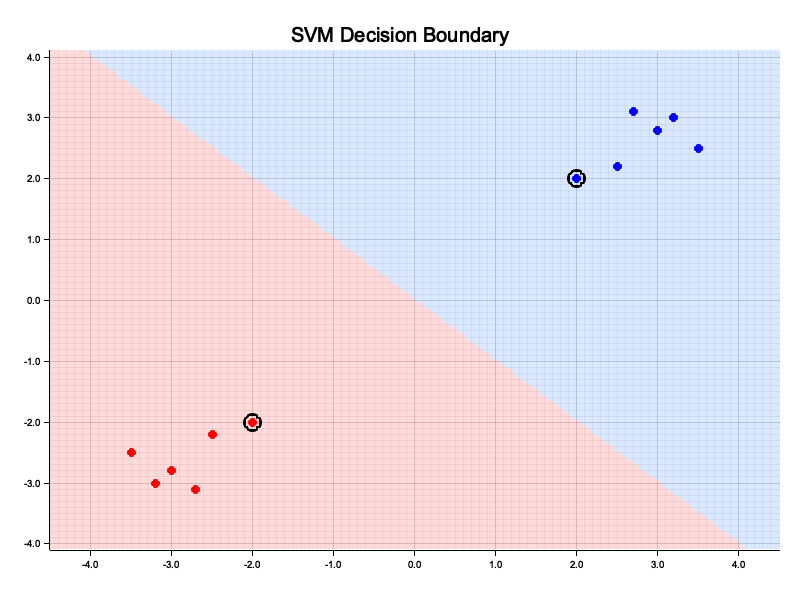
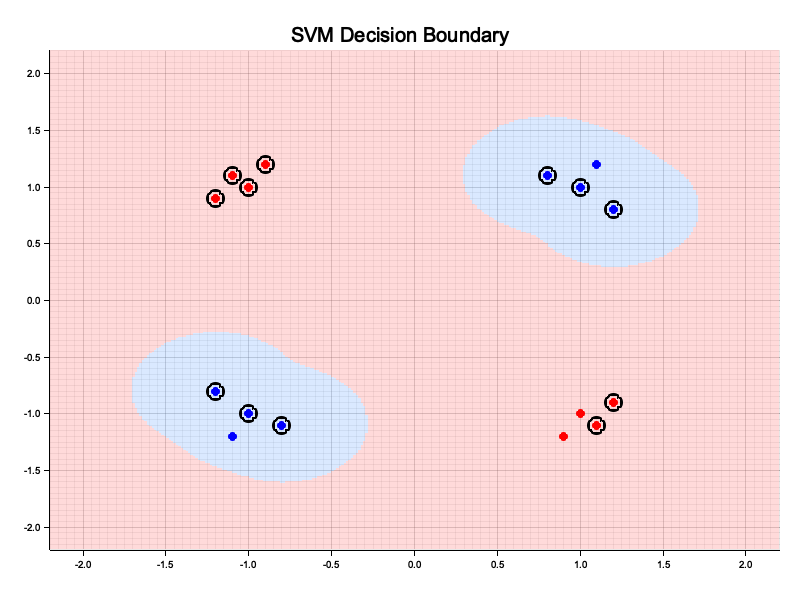
data will be shuffled

diff --git a/src/data.rs b/src/data.rs
@@ -95,6 +95,21 @@ pub fn split_data(
     (train_set, test_set)
 }
 
+pub fn shuffle_data(
+    points: Vec<Vec<f64>>,
+    labels: Vec<f64>,
+    seed: u64,
+) -> (Vec<Vec<f64>>, Vec<f64>) {
+    use rand::{SeedableRng, seq::SliceRandom};
+    let mut rng = StdRng::seed_from_u64(seed);
+    let mut indices: Vec<usize> = (0..points.len()).collect();
+    indices.shuffle(&mut rng);
+
+    let shuffled_points = indices.iter().map(|&i| points[i].clone()).collect();
+    let shuffled_labels = indices.iter().map(|&i| labels[i]).collect();
+    (shuffled_points, shuffled_labels)
+}
+
 #[cfg(test)]
 mod tests {
     use super::*;

diff --git a/src/main.rs b/src/main.rs
@@ -1,4 +1,4 @@
-use crate::data::{generate_blobs, load_csv, split_data};
+use crate::data::{generate_blobs, load_csv, shuffle_data, split_data};
 use crate::evaluation::Metrics;
 use crate::hyperparameters::Hyperparameters;
 use crate::kernel::{Linear, RBF};
@@ -18,7 +18,7 @@ mod plots;
 mod svm;
 
 fn main() {
-    svm_using_csv_data_linear();
+    svm_using_csv_data_rbf();
 }
 
 fn svm_using_generated_data_with_linear_kernel() {
@@ -133,7 +133,7 @@ fn svm_using_csv_data_linear() {
 
 fn svm_using_csv_data_rbf() {
     let (data, labels) = load_csv("test_datasets/rbf_svm_dataset.csv", true);
-
+    let (data, labels) = shuffle_data(data, labels, 42);
     let c_values = vec![0.1, 1.0, 10.0, 100.0];
     let sigma_values = vec![0.1, 0.5, 1.0, 5.0];
 